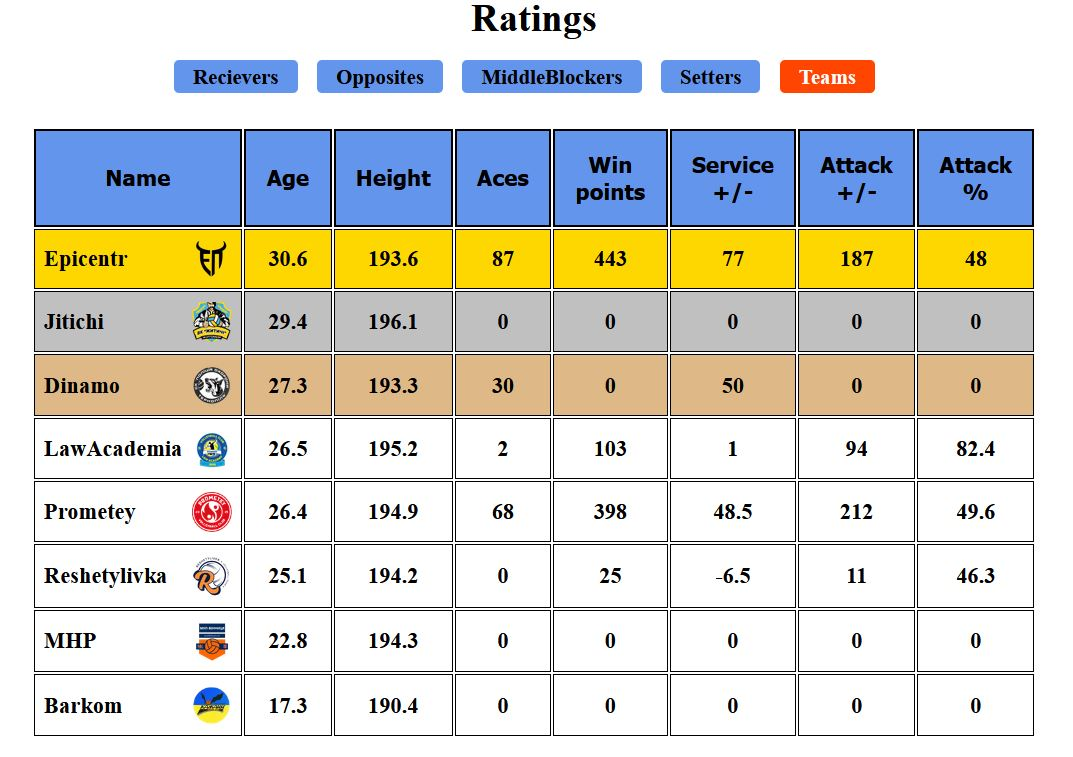
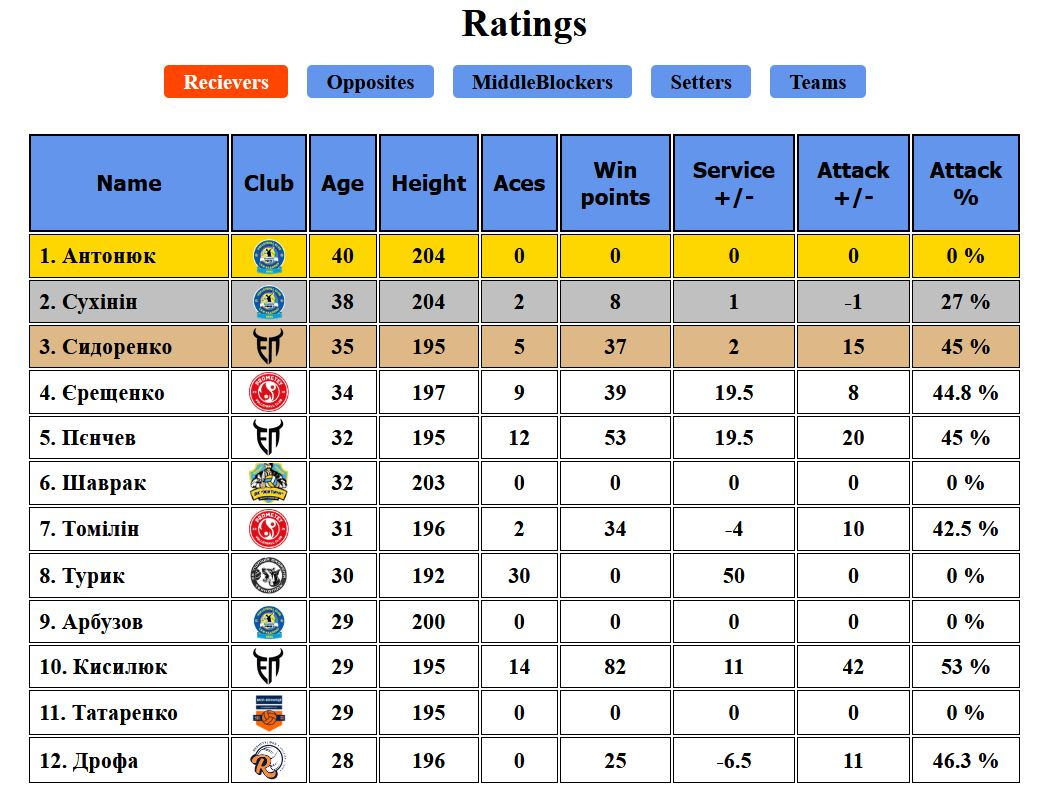
small css changes

diff --git a/src/Tutorial.js b/src/Tutorial.js
@@ -15,7 +15,12 @@ export function Tutorial({ text }) {
   useEffect(() => {
     dispatch(setisShowedTutorial(JSON.parse(localStorage.getItem("isShowedTutorial"))));
   }, [dispatch]);
-
+  const buttonUkrStyle = changeLanguage
+    ? { backgroundColor: "#FFD700", color: "#0057B8", border: "1px solid #0057B8" }
+    : { backgroundColor: "#0057B8", color: "#FFD700", border: "1px solid #FFD700" };
+  const buttonEngStyle = !changeLanguage
+    ? { backgroundColor: "#FFD700", color: "#0057B8", border: "1px solid #0057B8" }
+    : { backgroundColor: "#0057B8", color: "#FFD700", border: "1px solid #FFD700" };
   return (
     <>
       {showTutorial && (
@@ -24,16 +29,10 @@ export function Tutorial({ text }) {
             <div className="version-language-wrapper">
               <div className="userVersion">data version: {userVersion}</div>
               <div className="changeLanguage">
-                <button
-                  onClick={() => dispatch(setChangeLanguage(true))}
-                  style={changeLanguage ? { backgroundColor: "#FFD700", color: "#0057B8" } : null}
-                >
+                <button onClick={() => dispatch(setChangeLanguage(true))} style={buttonUkrStyle}>
                   Eng
                 </button>
-                <button
-                  onClick={() => dispatch(setChangeLanguage(false))}
-                  style={!changeLanguage ? { backgroundColor: "#FFD700", color: "#0057B8" } : null}
-                >
+                <button onClick={() => dispatch(setChangeLanguage(false))} style={buttonEngStyle}>
                   Ukr
                 </button>
               </div>

diff --git a/src/Ratings/ShapeForRatings.js b/src/Ratings/ShapeForRatings.js
@@ -16,6 +16,7 @@ export default function ShapeForRatings({ amplua }) {
 
   const categorys = [
     { header: "Name", category: "name" },
+    { header: "Club", category: "teamid" },
     { header: "Age", category: "age" },
     { header: "Height", category: "height" },
     { header: "Aces", category: "aces" },
@@ -65,11 +66,11 @@ export default function ShapeForRatings({ amplua }) {
           className="rating-row"
           style={changeBgColors(index)}
         >
-          <td style={changeBgColors(index)} className="name-wrapper">
-            <>{player.name}</>
-            <>
-              <img src={`/photos/${player.teamid || player.name}.jpg`} alt="" />
-            </>
+          <td style={{ padding: "0 0.5vw", textAlign: "start" }}>
+            {index + 1}.<nobr> {player.name}</nobr>
+          </td>
+          <td style={{ display: "flex", justifyContent: "center" }}>
+            <img src={`/photos/${player.teamid || player.name}.jpg`} alt="" />
           </td>
           <td>{player.age}</td>
           <td>{player.height}</td>
@@ -77,7 +78,7 @@ export default function ShapeForRatings({ amplua }) {
           <td>{player.winPoints}</td>
           <td>{player.plusMinusOnService}</td>
           <td>{player.plusMinusOnAttack}</td>
-          <td>{player.percentOfAttack}</td>
+          <td>{player.percentOfAttack} %</td>
         </tr>
       ))}
     </>

diff --git a/src/css/newMain.css b/src/css/newMain.css
@@ -35,16 +35,19 @@ option {
   font-size: calc((var(--normal-text-size-value) - 1) * 3vw + 0.2rem);
   margin: 0.5vw;
   border: none;
-  background-color: gold;
+  background-color: #ffd700;
   padding: 0.3vw 1vw;
   border-radius: 50px;
   font-weight: bold;
-  border: 2px solid rgb(0, 0, 0);
+  border: 2px solid #0057b8;
   box-sizing: border-box;
+  color: #0057b8;
 }
 .regularButton:hover {
   transition: 0.3s;
-  background-color: rgb(255, 69, 0);
+  background-color: #0057b8;
+  color: #ffd700;
+  border: 2px solid #ffd700;
   opacity: 1;
   scale: 1.15;
 }
@@ -370,7 +373,7 @@ main .main-content-wrapper .section-content-wrapper .section-content .hidden-pla
 }
 main .main-content-wrapper .section-content-wrapper .section-content .hidden-player-information-wrapper .player-full-info-wrapper .player-info-data-wrapper nav a,
 main .main-content-wrapper .section-content-wrapper .section-content .hidden-player-information-wrapper .player-full-info-wrapper .player-info-data-wrapper nav button {
-  margin: 0.75vw 0.3vw;
+  margin: 0.5vw 0.5vw;
   border-radius: 5px;
   text-decoration: none;
   color: rgb(0, 0, 0);

diff --git a/src/css/Main.module.scss b/src/css/Main.module.scss
@@ -65,15 +65,18 @@ option {
   font-size: calc((var(--normal-text-size-value) - 1) * 3vw + 0.2rem);
   margin: 0.5vw;
   border: none;
-  background-color: gold;
+  background-color: #ffd700;
   padding: 0.3vw 1vw;
   border-radius: 50px;
   font-weight: bold;
-  border: 2px solid $Black;
+  border: 2px solid #0057b8;
   box-sizing: border-box;
+  color: #0057b8;
   &:hover {
     transition: 0.3s;
-    background-color: $ButtonColor;
+    background-color: #0057b8;
+    color: #ffd700;
+    border: 2px solid #ffd700;
     opacity: 1;
     scale: (1.15);
   }
@@ -383,7 +386,7 @@ main {
                 flex-wrap: wrap;
                 a,
                 button {
-                  margin: 0.75vw 0.3vw;
+                  margin: 0.5vw 0.5vw;
                   border-radius: 5px;
                   text-decoration: none;
                   color: $Black;

diff --git a/src/css/newRatings.css b/src/css/newRatings.css
@@ -57,7 +57,7 @@
   border: none;
   font-size: calc((var(--normal-text-size-value) - 1) * 3vw + 0.5rem);
   font-weight: 600;
-  padding: 1vw;
+  padding: 1vw 0.5vw;
 }
 .main-content-wrapper .ratings-section tbody tr td {
   font-size: calc((var(--normal-text-size-value) - 1) * 3vw + 0.5rem);
@@ -65,15 +65,14 @@
   border: 1px solid black;
   font-weight: 600;
 }
+.main-content-wrapper .ratings-section tbody tr td img {
+  width: calc((var(--normal-text-size-value) - 1) * 5vw + 1rem);
+}
 .main-content-wrapper .ratings-section tbody tr .name-wrapper {
   display: flex;
   align-items: center;
   justify-content: space-between;
   padding: 0.5vw;
-}
-.main-content-wrapper .ratings-section tbody tr .name-wrapper img {
-  width: calc((var(--normal-text-size-value) - 1) * 5vw + 1rem);
-  margin-left: 0.5vw;
 }
 
 @media screen and (max-width: 1200px) {

diff --git a/src/css/Ratings.module.scss b/src/css/Ratings.module.scss
@@ -58,7 +58,7 @@
             border: none;
             font-size: calc((var(--normal-text-size-value) - 1) * 3vw + 0.5rem);
             font-weight: 600;
-            padding: 1vw;
+            padding: 1vw 0.5vw;
           }
         }
         td {
@@ -66,16 +66,15 @@
           box-sizing: border-box;
           border: 1px solid black;
           font-weight: 600;
+          img {
+            width: calc((var(--normal-text-size-value) - 1) * 5vw + 1rem);
+          }
         }
         .name-wrapper {
           display: flex;
           align-items: center;
           justify-content: space-between;
           padding: 0.5vw;
-          img {
-            width: calc((var(--normal-text-size-value) - 1) * 5vw + 1rem);
-            margin-left: 0.5vw;
-          }
         }
       }
     }

diff --git a/src/StaticHelpModules/textForTutorial.js b/src/StaticHelpModules/textForTutorial.js
@@ -14,7 +14,7 @@ const enterWord = (
       статистичних даних відсутня, але буде заповнюватися з початком сезону 2023-2024 ПВЛУ.
     </div>
     <div className="inner-image-wrapper">
-      <img alt="" src="/photos/MyLogo.png" />
+      <img alt="" src="/photos/MyLogo.png" className="my-logo"/>
     </div>
   </>
 );
@@ -111,7 +111,7 @@ const enterWordEng = (
       database available. However, it will be populated starting from the 2023-2024 PVLU season.
     </div>
     <div className="inner-image-wrapper">
-      <img alt="" src="/photos/MyLogo.png" />
+      <img alt="" src="/photos/MyLogo.png" className="my-logo"/>
     </div>
   </>
 );

diff --git a/src/css/newTutorial.css b/src/css/newTutorial.css
@@ -113,6 +113,11 @@
   font-size: calc(0.75vw + 0.7rem);
 }
 
+@media screen and (max-width: 820px) {
+  .my-logo {
+    width: 50%;
+  }
+}
 @media screen and (max-width: 600px) {
   .grab .tutorial .switch {
     justify-content: space-between !important;

diff --git a/src/css/Tutorial.module.scss b/src/css/Tutorial.module.scss
@@ -120,6 +120,11 @@
 .textForTutorial div {
   font-size: calc((0.25) * 3vw + 0.7rem);
 }
+@media screen and (max-width: 820px) {
+  .my-logo {
+    width: 50%;
+  }
+}
 @media screen and (max-width: 600px) {
   .grab {
     .tutorial {

diff --git a/src/AttackPage/components/inner components/ConeReaction.js b/src/AttackPage/components/inner components/ConeReaction.js
@@ -10,7 +10,6 @@ export function ConeReaction({ value }) {
     opacity: opacity,
     color: "black",
     border: active ? "2px solid black" : "none",
-    borderRadius: "50%",
   };
   return (
     <button
